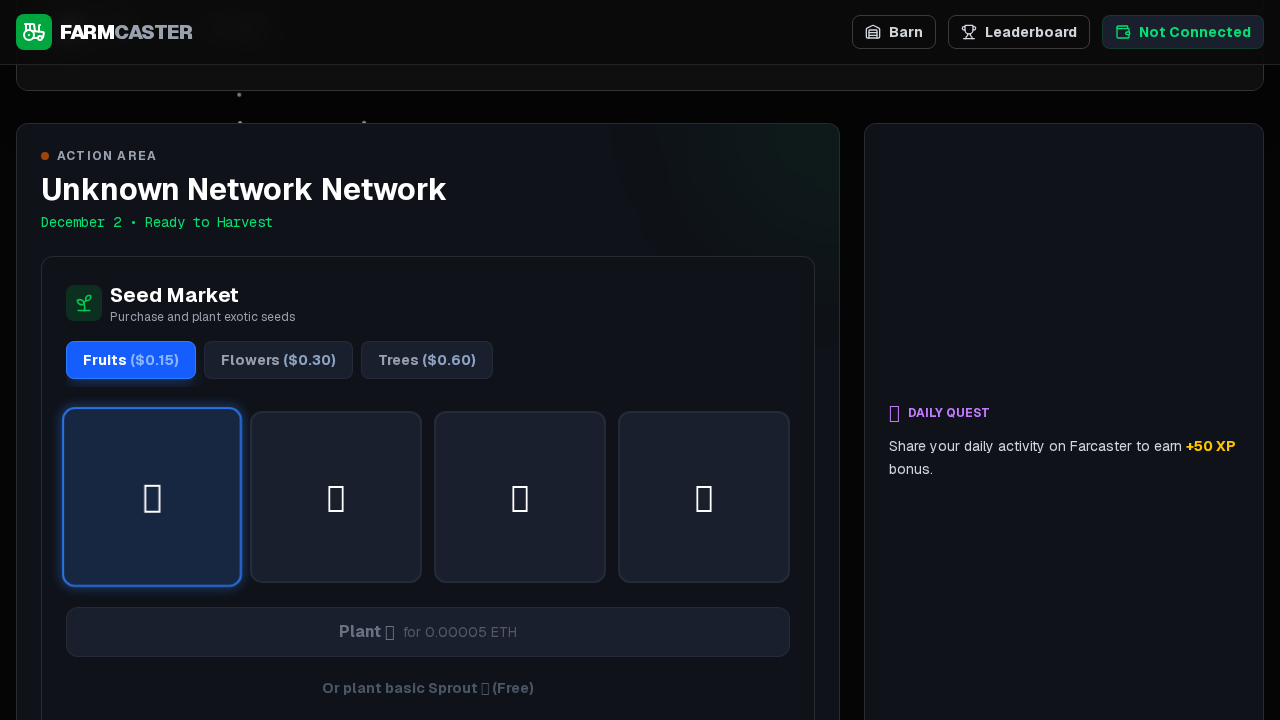
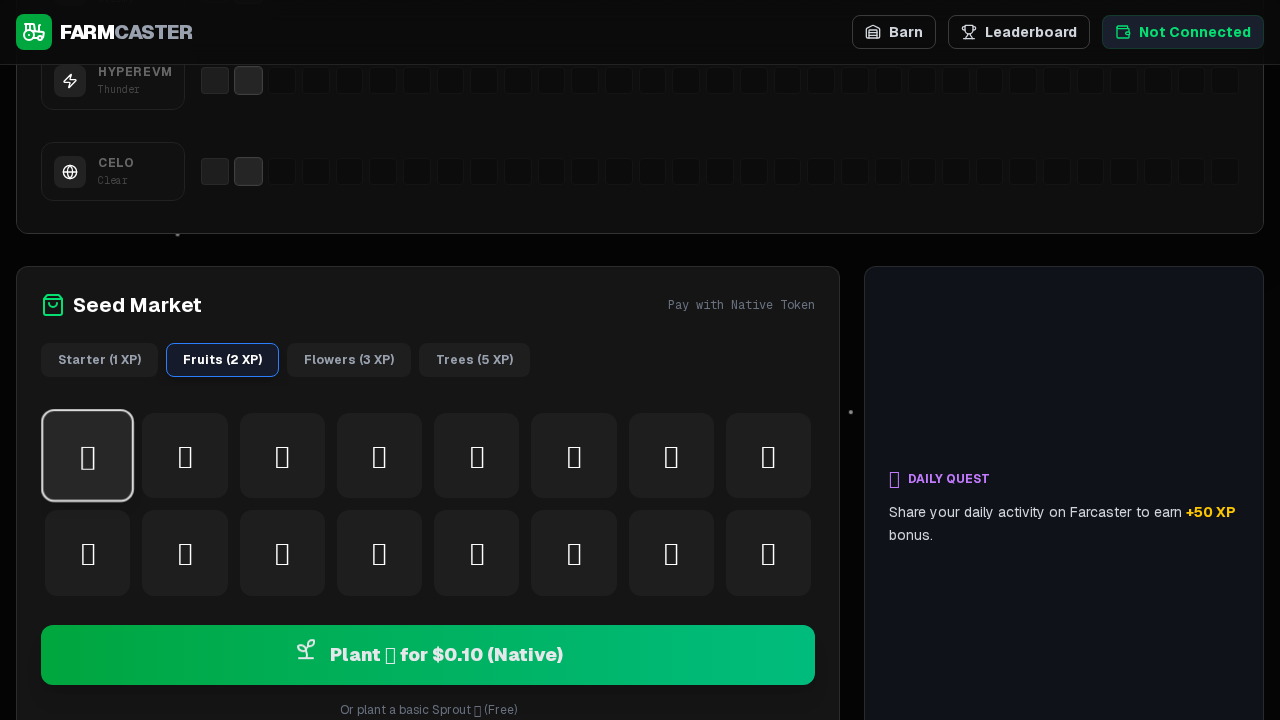
Update frontend for V2 Garden contracts
- Update constants/contracts.ts with new V2 addresses and GARDEN_ABI.
- Create components/SeedMarket.tsx for the new seed planting UI.
- Update hooks/useWaterPlant.ts to use the new plant(seedId) function.
- Update app/page.tsx to replace Action Area with SeedMarket.

diff --git a/components/SeedMarket.tsx b/components/SeedMarket.tsx
@@ -4,11 +4,11 @@ import { parseEther } from 'viem';
 import { Loader2, Sprout, ShoppingBag } from 'lucide-react';
 
 // CATALOG CONFIGURATION
-// Prices are in ETH/Native Token (Approximate for logic)
+// Prices are in ETH/Native Token (Matched to contract logic)
 const SEED_TIERS = [
   {
     id: 0,
-    name: 'Starter',
+    name: 'Starter (1 XP)',
     priceLabel: 'Free',
     priceValue: '0',
     color: 'border-gray-500',
@@ -17,27 +17,27 @@ const SEED_TIERS = [
   },
   {
     id: 1,
-    name: 'Fruits ($0.10)',
-    priceLabel: '0.00005 ETH',
-    priceValue: '0.0000003', // Matches contract logic
+    name: 'Fruits (2 XP)',
+    priceLabel: '$0.10 (Native)',
+    priceValue: '0.00003', // ~10 Cent
     color: 'border-blue-500',
     bg: 'bg-blue-900/20',
     emojis: ['🫐','🍋','🌽','🍇','🍄','🍓','🍆','🥥','🍒','🥕','🥦','🍅','🥝','🥑','🫒','🥜','🥒','🌶']
   },
   {
     id: 2,
-    name: 'Flowers ($0.15)',
-    priceLabel: '0.00010 ETH',
-    priceValue: '0.00000045', // Matches contract logic
+    name: 'Flowers (3 XP)',
+    priceLabel: '$0.15 (Native)',
+    priceValue: '0.000045', // ~15 Cent
     color: 'border-pink-500',
     bg: 'bg-pink-900/20',
     emojis: ['🌻','🌹','🌷','🪷','🌺','🌸','🌼','💐','🥀','💮','🏵','🪻']
   },
   {
     id: 3,
-    name: 'Trees ($0.20)',
-    priceLabel: '0.00020 ETH',
-    priceValue: '0.0000006', // Matches contract logic
+    name: 'Trees (5 XP)',
+    priceLabel: '$0.20 (Native)',
+    priceValue: '0.00006', // ~20 Cent
     color: 'border-green-500',
     bg: 'bg-green-900/20',
     emojis: ['🌳','🌲','🌴','🌵','🎄','🎋','🪵','🪴','🌲','🍂','🍁']
@@ -45,16 +45,14 @@ const SEED_TIERS = [
 ];
 
 export default function SeedMarket() {
-  const { plant: waterPlant, isPending, isSuccess } = useWaterPlant();
-  const [activeTab, setActiveTab] = useState(1); // Default to Fruits
+  const { waterPlant, isPending, isSuccess } = useWaterPlant();
+  const [activeTab, setActiveTab] = useState(1);
   const [selectedEmoji, setSelectedEmoji] = useState<string | null>(null);
 
   const activeTier = SEED_TIERS.find(t => t.id === activeTab);
 
   const handlePlant = () => {
     if (!activeTier) return;
-    // Call contract with Seed ID (0, 1, 2, 3) and Price
-    // Note: The specific emoji is visual only for now, the contract tracks the Tier.
     waterPlant(activeTier.id, parseEther(activeTier.priceValue));
   };
 
@@ -125,7 +123,7 @@ export default function SeedMarket() {
           )}
         </button>
 
-        {/* Free Option Quick Link (If not on Free tab) */}
+        {/* Free Option Quick Link */}
         {activeTab !== 0 && (
           <button
             onClick={() => { setActiveTab(0); setSelectedEmoji('🌱'); }}

diff --git a/app/page.tsx b/app/page.tsx
@@ -133,25 +133,9 @@ export default function Home() {
 
         {/* Action Area */}
         <div className="grid grid-cols-1 md:grid-cols-3 gap-6">
-          <div className="md:col-span-2 bg-[#0f1218] rounded-xl border border-white/10 p-6 flex flex-col md:flex-row items-center justify-between relative overflow-hidden">
-             <div className="absolute top-0 right-0 w-64 h-64 bg-green-500/5 rounded-full blur-3xl -translate-y-1/2 translate-x-1/2 pointer-events-none" />
-
-             <div className="w-full h-full flex flex-col gap-6 relative z-10">
-                <div>
-                  <div className="flex items-center gap-2 mb-2">
-                    <div className={`w-2 h-2 rounded-full ${isTodayDone ? 'bg-green-500' : 'bg-orange-500 animate-pulse'}`}></div>
-                    <h4 className="text-gray-400 text-xs font-bold uppercase tracking-widest">ACTION AREA</h4>
-                  </div>
-                  <h2 className="text-3xl font-bold text-white">{activeNetworkName} Network</h2>
-                  <p className="text-green-400 text-sm font-mono mt-1">
-                    {new Date().toLocaleDateString('en-US', { month: 'long', day: 'numeric' })} • {isTodayDone ? 'Harvested' : 'Ready to Harvest'}
-                  </p>
-                </div>
-
-                <div className="w-full">
-                  <SeedMarket />
-                </div>
-             </div>
+           <div className="md:col-span-2">
+             {/* Replaced the old Action Area card with the Market */}
+             <SeedMarket />
           </div>
 
           <div className="bg-[#0f1218] rounded-xl border border-white/10 p-6 flex flex-col justify-center">

diff --git a/constants/contracts.ts b/constants/contracts.ts
@@ -15,30 +15,30 @@ export const HUB_ABI = [
 export const CONTRACT_ADDRESSES: Record<number, { hub: Address; logic: Address }> = {
   8453: { // BASE
     hub: "0xdC0AB65C6de75D0A14bE498C21b7DAa5fc7a2548",
-    logic: "0x2e19f870da94BACC93921D7E6839c895C195c152"
+    logic: "0xb3fa8EcC4b73DA8fd4281Ac37D539ac53DE0663c"
   },
   56: { // BSC
     hub: "0x69a9632Bd2385F5863CCD464f195aaeC8bC18c76",
-    logic: "0x8CdfAD92aB6489a8E339b6e6D3e85A3909B7133f"
+    logic: "0x63487E1a96Fd4877a38805F933d682881B6c16CA"
   },
   42161: { // ARBITRUM
     hub: "0xe81e5ad7a49b3Ff0F9468d52f0D60fb5ab92C69d",
-    logic: "0x93F3C20212712C599d996b955a20b70711A553DA"
+    logic: "0x93A42B500C00876139a5B9DE8387484CA92924eB"
   },
   42220: { // CELO
     hub: "0x50bC8ed78A79CF9e41DA82919F828CBd45765Fc7",
-    logic: "0x65EBed9Be55dBd971d02895093afD5541e6e8A9E"
+    logic: "0x0473F3566434e1b08A48ca8a27d4371402eB0776"
   },
   1: { // ETHEREUM
     hub: "0x706778CdAAA8CfbaA49E0A931266E71C87Ea30Ef",
-    logic: "0x42f96C6C61759f59c04D885AB221b61e2F526Dec"
+    logic: "0xF8e54Bb2D4743A4eFBFA8912376BC2e1CB0fCD4c"
   },
   143: { // MONAD
     hub: "0x9002634d00c91f7773e95a10d9D20a5e94263F61",
-    logic: "0xA1CBa9fF6beEF833517eeE6f59A82f6a8C646764"
+    logic: "0x1a7E946B4f6F4D49aDc073C30972494e3f9bd7Dc"
   },
   999: { // HYPEREVM
     hub: "0xbab962Cd818FC1f6246e2dA406DB2B3c324c608B",
-    logic: "0xaf03e384B4bCC9E4A8B8992A4Ba6E3B201B551a4"
+    logic: "0xc124Ab91A2C3B83519056485d4521f23043b7a53"
   }
 };

diff --git a/hooks/useWaterPlant.ts b/hooks/useWaterPlant.ts
@@ -5,8 +5,7 @@ export function useWaterPlant() {
   const { chainId } = useAccount();
   const { writeContract, isPending, isSuccess, data: hash } = useWriteContract();
 
-  const plant = (seedId: number, value: bigint) => {
-    // Check if we are on a valid network
+  const waterPlant = (seedId: number, value: bigint) => {
     if (!chainId || !CONTRACT_ADDRESSES[chainId]) {
       alert("Please switch to a supported network first!");
       return;
@@ -23,5 +22,5 @@ export function useWaterPlant() {
     });
   };
 
-  return { plant, isPending, isSuccess, hash };
+  return { waterPlant, isPending, isSuccess, hash };
 }

diff --git a/verification/verify_seed_market_fixed.py b/verification/verify_seed_market_fixed.py
@@ -2,8 +2,8 @@ from playwright.sync_api import Page, expect, sync_playwright
 
 def verify_seed_market(page: Page):
     # 1. Arrange: Go to the app
-    # Using the port from serve.log
-    page.goto("http://localhost:46109")
+    # Using the port 3001
+    page.goto("http://localhost:3001")
 
     # 2. Act: Wait for the Seed Market to be visible
     # We look for the "Seed Market" heading
@@ -27,11 +27,12 @@ def verify_seed_market(page: Page):
     blueberry.click()
 
     # Check if the "Plant" button updates
+    # The expected text is "Plant 🫐 for $0.10 (Native)"
     plant_button = page.get_by_role("button", name="Plant 🫐 for $0.10 (Native)")
     expect(plant_button).to_be_visible()
 
     # 4. Screenshot: Capture the state
-    page.screenshot(path="verification/seed_market.png")
+    page.screenshot(path="verification/seed_market_fixed.png")
 
 if __name__ == "__main__":
     with sync_playwright() as p:
@@ -41,7 +42,7 @@ if __name__ == "__main__":
             verify_seed_market(page)
         except Exception as e:
             print(f"Error: {e}")
-            page.screenshot(path="verification/error.png")
+            page.screenshot(path="verification/error_fixed.png")
             raise e
         finally:
             browser.close()
